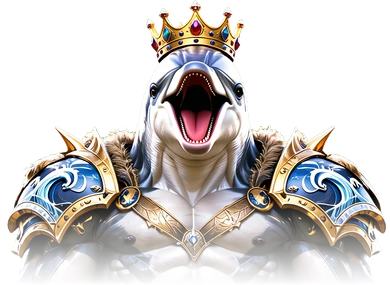
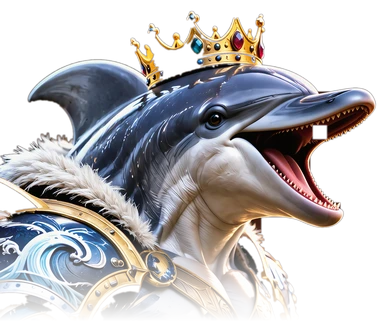
Tidal Kingdom arena; Dolphin King unlocks by winning a match there; matching portrait, victory art and spirit head; leaping-dolphin special effect
Claude-Session: https://claude.ai/code/session_01Wp8cgZvzavvyA9CxcdgKRp

diff --git a/game/js/game.js b/game/js/game.js
@@ -55,7 +55,7 @@ function setGfx(v){GFX=v;try{localStorage.setItem('kotj-gfx',v)}catch(_){}RES.sc
 
 /* ---------- Arenas ---------- */
 const ARENAS=[{id:'jungle-temple',name:'JUNGLE TEMPLE'},{id:'inferno-fortress',name:'INFERNO FORTRESS'},{id:'frozen-kingdom',name:'FROZEN KINGDOM'},
- {id:'savage-plains',name:'SAVAGE PLAINS'},{id:'shadow-swamp',name:'SHADOW SWAMP'},{id:'caes-corner',name:"CAE'S CORNER"},{id:'royal-colosseum',name:"MAJIC'S LAIR",lair:1}];
+ {id:'savage-plains',name:'SAVAGE PLAINS'},{id:'shadow-swamp',name:'SHADOW SWAMP'},{id:'caes-corner',name:"CAE'S CORNER"},{id:'tidal-kingdom',name:'THE TIDAL KINGDOM'},{id:'royal-colosseum',name:"MAJIC'S LAIR",lair:1}];
 const LAIR=ARENAS.find(a=>a.lair),FIGHT_ARENAS=ARENAS.filter(a=>!a.lair);
 const arenaImg={};ARENAS.forEach(a=>{const im=new Image();im.src='assets/arenas/'+a.id+'.webp';arenaImg[a.id]=im});
 let arena=ARENAS[0],stagePick=0; // stagePick: index into ARENAS, ARENAS.length = random
@@ -241,7 +241,7 @@ function render(){
  $('roster').innerHTML='';
  const ORDER=[['lion','tiger','jaguar','wolf','hyena','badger','dolphin','majic'],['grizzly','crocodile','hippo','elephant','leopard','snake','eagle','stag']];
  ORDER.forEach(row=>{const r=document.createElement('div');r.className='sel-row';row.forEach(id=>{const f=roster.find(x=>x.id===id);
-  if(!f){if(NEW_FIGHTERS.some(n=>n.id===id)){const l=document.createElement('div');l.className='fighter-tile locked';l.title='Clear the Tower to unlock a hidden fighter';l.innerHTML='<span class="tf"><b class="q">?</b><i class="lock">🔒</i></span>';r.append(l)}return}
+  if(!f){if(id==='dolphin'){const l=document.createElement('div');l.className='fighter-tile locked tidal-lock';l.title='Win a match in THE TIDAL KINGDOM to unlock';l.innerHTML='<span class="tf"><b class="q">?</b><i class="lock">🌊</i></span>';l.onclick=()=>gmToast('🌊 A KING SLEEPS BENEATH THE WAVES','Win a match in THE TIDAL KINGDOM to unlock him');r.append(l);return}if(NEW_FIGHTERS.some(n=>n.id===id)){const l=document.createElement('div');l.className='fighter-tile locked';l.title='Clear the Tower to unlock a hidden fighter';l.innerHTML='<span class="tf"><b class="q">?</b><i class="lock">🔒</i></span>';r.append(l)}return}
   if(mode==='forgotten'&&f.id==='majic')return;const i=roster.indexOf(f);
   const b=document.createElement('button');b.className='fighter-tile'+(chosen.id===f.id?' selected':'');b.dataset.id=f.id;if(f.id==='majic')b.classList.add('titan');
   b.innerHTML=`<span class="tf"><img src="assets/ui/cards/${f.id}.webp?v=10.16" alt="${f.name}"><strong${f.name.length>9?' class="long"':''}>${f.name}</strong></span>`+(f.id==='majic'?'<i class="bolt b0"></i><i class="bolt b1"></i><i class="bolt b2"></i>':'')+'<em class="tap-pick">TAP TO PICK</em>'+(crowns().includes(f.id)?'<img class="tile-crown" src="assets/ui/crown.webp" alt="Tower champion" title="Conquered the Tower">':'');
@@ -1411,6 +1411,7 @@ const NEW_FIGHTERS=[
  {id:'stag',name:'STAG',icon:'🦌',style:'THE IRON HORN',bio:'An unstoppable charger with iron antlers, crushing kicks and an earth-shaking stomp.',power:9,speed:6,defense:8,color:'#9a6a34'}];
 const unlockedNew=()=>SAVE.get('unlocked',[]);
 function addUnlocked(){for(const f of NEW_FIGHTERS)if(unlockedNew().includes(f.id)&&!roster.includes(f)){const i=roster.indexOf(MAJIC);i>=0?roster.splice(i,0,f):roster.push(f)}}
+const DOLPHIN={id:'dolphin',name:'DOLPHIN KING',icon:'🐬',style:'LORD OF THE TIDES · SPEED & WATER',bio:'A crowned king of the deep. Lightning-fast rushes, water control and agility: Riptide Rush, Whirlpool, Sonar Blast, Breach Slam and the Wrath of the Deep Ultimate.',power:7,speed:9,defense:7,color:'#3f7fc4'}; // unlocked by winning a match in THE TIDAL KINGDOM
 const MAJIC={id:'majic',name:'MAJIC',icon:'👑',style:'THE JUNGLE TITAN · SECRET BOSS',bio:'All 11 beasts in one: lion mane, elephant tusks, eagle wings, serpents, a crocodile tail, tiger stripes and the frost-white fur of a snow leopard. Frost Strike, Jungle Rage, True Titan Form and the Titan Fury Ultra.',power:13,speed:6,defense:14,color:'#d9a43a'};
 const secretUnlocked=()=>!!SAVE.get('secret',false);
 const LOCK_SVG='<svg viewBox="0 0 24 24" width="44%" fill="none" stroke="#e8b95b" stroke-width="2"><rect x="5" y="11" width="14" height="10" rx="2"/><path d="M8 11V7a4 4 0 0 1 8 0v4"/></svg>';
@@ -1821,7 +1822,7 @@ function draw(){
  // Subtle atmospheric depth: slow drifting motes at staggered depths sit
  // between the arena artwork and fighters. They remain cosmetic and cheap.
  {
-  const atmosphere=arena.id==='royal-colosseum'?'#b58cff':arena.id==='frozen-kingdom'?'#c9efff':'#e7c78a';
+  const atmosphere=arena.id==='royal-colosseum'?'#b58cff':arena.id==='tidal-kingdom'?'#9fe8ff':arena.id==='frozen-kingdom'?'#c9efff':'#e7c78a';
   for(let n=0;n<24;n++){
    const depth=.35+(n%5)*.13;
    const x=((n*173+t*(8+(n%4)*3)*depth)%1220)-60;
@@ -2888,7 +2889,7 @@ function drawGeneric(f,i){
  if(f.hitFlash>0){c.globalAlpha=.4;c.fillStyle='#fff';c.beginPath();c.ellipse(0,-150,70,120,0,0,7);c.fill();c.globalAlpha=1;}
 }
 
-addUnlocked();if(secretUnlocked()&&!roster.includes(MAJIC))roster.push(MAJIC);
+addUnlocked();if(unlockedNew().includes('dolphin')&&!roster.includes(DOLPHIN)){const i=roster.indexOf(MAJIC);i>=0?roster.splice(i,0,DOLPHIN):roster.push(DOLPHIN)}if(secretUnlocked()&&!roster.includes(MAJIC))roster.push(MAJIC);
 forgottenMenu();
 render();show('menu');updateGuide();
 addEventListener('resize',()=>{cam.snap=true});addEventListener('orientationchange',()=>{cam.snap=true;setTimeout(()=>{cam.snap=true},300)});
@@ -2911,7 +2912,7 @@ const PFX={
  eagle:{a:'#ffe08a',b:'#ffffff',sc:'#ffe9a0',start:['tornado','feathers','wind'],hit:['spirit:dive','featherburst','gash'],gash:3,gc:'#ffffff'},
  snake:{a:'#8fe04a',b:'#2f6b1a',start:['kcobra'],hit:['kstrike','venom','poison'],gash:0},
  stag:{a:'#9fd86a',b:'#ffe08a',sc:'#a8ff6a',start:['spirit:rise','leafstorm'],hit:['vines','leafburst','shock'],gash:0},
- dolphin:{a:'#4fc3ff',b:'#e4f9ff',sc:'#6fdcff',start:['spirit:rise','drops'],hit:['splash','drops','shock'],gash:0},
+ dolphin:{a:'#4fc3ff',b:'#e4f9ff',sc:'#6fdcff',start:['leap','spirit:rise','drops'],hit:['splash','drops','shock'],gash:0},
  majic:{a:'#b46bff',b:'#7fe6ff',sc:'#b46bff',start:['after','portal','spirit:rise','skybolts'],hit:['bolts','icicles','shock'],gash:0,after:'brightness(.7) saturate(2) hue-rotate(240deg)',sh2:300}
 };
 const PFX_NORMAL=new Set(['claw','double','bite','block','grab','throw']);
@@ -3022,6 +3023,7 @@ function pBurst(f,stage,x,y,big){
   else if(k==='dark')P({kind:'pp',sh:'dark',x:f.x,y:400+f.y-150,life:1.1});
   else if(k==='eyes'){const o=game.fighters[1-game.fighters.indexOf(f)];P({kind:'pp',sh:'eyes',x:(o?o.x:f.x)+d*R(140,220),y:400+(o?o.y:0)-R(250,300),life:1})}
   else if(k==='moon')P({kind:'pp',sh:'moon',x:f.x-d*140,y:120,life:1.4});
+  else if(k==='leap'){P({kind:'pp',sh:'leap',x:f.x,x0:f.x-d*60,dir:d,y:380,life:1.5});sxFx(f,['splash'],f.x-d*230,396,.7)}
   else if(k==='ghostpack'){const o=game.fighters[1-game.fighters.indexOf(f)],ox=o?o.x:f.x+d*300;for(let i=0;i<3;i++)HS(f,{kind:'pp',sh:'spirit',id:'wolf',mode:'charge',x:f.x-d*R(150,260),y:400-R(10,80),x1:ox+d*R(40,140),h:R(120,160),dir:d,color:'#8fc8ff',life:.75,travel:.45,delay:.15+i*.12,alpha:.7,filter:'saturate(.2) brightness(1.3) sepia(.4) hue-rotate(170deg) saturate(2.5)'})}
   else if(k==='pack')for(let i=0;i<3;i++)HS(f,{kind:'pp',sh:'spirit',id:'hyena',mode:'rise',x:f.x+d*(i-1)*140,y:400+f.y-160-(i===1?60:0),h:150,dir:i===0?-d:d,color:'#ff5a3a',life:.9,delay:i*.1,alpha:.75});
   else if(k==='eruption'){const eo=game.fighters[1-game.fighters.indexOf(f)],ex=eo?eo.x:f.x+d*200;P({kind:'pp',sh:'fissure',x:f.x+d*30,x1:ex,y:399,life:.9,seed:Math.random()});HS(f,{kind:'pp',sh:'spirit',id:f.data.id,mode:'emerge',x:ex,delay:.2,y:398,h:230,dir:d,color:th.sc||th.a,life:.9});for(let i=0;i<16;i++)P({kind:'pp',sh:'rock',delay:.2,x:ex+R(-40,40),y:396,vx:R(-260,260),vy:R(-900,-450),g:1700,r:R(7,15),rot:R(0,6),vr:R(-9,9),life:R(.9,1.3),color:i%3?'#6b5440':'#8a7356'});for(let i=0;i<8;i++)P({kind:'pp',sh:'puff',delay:.2,x:ex+R(-50,50),y:396-R(0,120),vx:R(-40,40),vy:R(-160,-60),r:R(18,30),grow:60,life:R(.7,1),color:'#8a7356',alpha:.5})}
@@ -3263,6 +3265,7 @@ function pCobra(p,k){const s=(p.sz||1)*(p.strike?1.05:1)*.75,lunge=p.strike?Math
    case'dark':dDark(p,k);break;
    case'eyes':dEyes(p,k);break;
    case'moon':dMoon(p,k);break;
+   case'leap':dLeap(p);break;
    case'fissure':dFissure(p,k);break;
    case'pool':dPool(p,k);break;
    case'tidal':dTidal(p,k);break;
@@ -3420,12 +3423,12 @@ const SX_GLYPH={'236A':'↓↘→ + ATK','214A':'↓↙← + ATK','236S':'↓↘
 // fs / fh: effects on start / on hit · use: an existing move · grab / launch / down / root / slow / venom / freeze / tele / parry / proj / cost / cd
 const SX={
  dolphin:{m:[
-  {n:'TIDAL WAVE CRUSHER',d:'Summons a towering ocean wave that crashes into the foe and knocks them back',a:['sx3','attack_heavy'],t:1.0,h:[.62],dm:13,st:.85,pu:460,r:520,ry:80,down:1,fs:['drops'],fh:['tidal','splash','wave','quake'],col:'#4fc3ff'},
+  {n:'TIDAL WAVE CRUSHER',d:'Summons a towering ocean wave that crashes into the foe and knocks them back',a:['sx3','attack_heavy'],t:1.0,h:[.62],dm:13,st:.85,pu:460,r:520,ry:80,down:1,fs:['leap','spirit:rise','drops'],fh:['tidal','splash','wave','quake'],col:'#4fc3ff'},
   {n:'SONIC ECHO BLAST',d:'Echolocation shockwave from his mouth · stuns and warps the screen',a:['sx2','attack_heavy'],t:.85,h:[.48],dm:8,st:1.25,pu:220,r:700,ry:90,warp:1,fs:['wave'],fh:['wave','shock'],col:'#b8f0ff'},
   {n:'AQUA TORNADO',d:'Rapid spin inside a water vortex · lifts the foe into the air for juggles',a:['sx1','attack_heavy'],t:.85,h:[.25,.45,.65],dm:4.2,st:.7,pu:90,r:330,vy:-420,launch:1,fs:['vortex'],fh:['vortex','drops','splash'],col:'#3fd2ff'},
-  {n:'DOLPHIN TORPEDO',d:'Launches forward like a torpedo wrapped in water · devastating shoulder strike',a:['special_pounce'],t:.75,h:[.38],dm:12,st:.75,pu:360,r:330,vx:760,fs:['splash','drops'],fh:['splash','drops','shock'],col:'#4fc3ff'},
+  {n:'DOLPHIN TORPEDO',d:'Launches forward like a torpedo wrapped in water · devastating shoulder strike',a:['special_pounce'],t:.75,h:[.38],dm:12,st:.75,pu:360,r:330,vx:760,fs:['leap','splash','drops'],fh:['splash','drops','shock'],col:'#4fc3ff'},
   {n:'TIDAL FIST',d:'Electric water uppercut (25% meter)',a:['attack_heavy','uppercut'],t:.78,h:[.42],dm:11,st:.75,pu:300,r:290,cost:25,fs:['drops'],fh:['splash','wave','shock'],col:'#7fe0ff'}],
-  u:{n:'WRATH OF THE OCEAN',s:'THE OCEAN RISES',col:'#4fc3ff',dark:1,flood:1,seq:[['sx1',.6,['vortex','drops','splash'],7],['uppercut',.5,['vortex','splash','shock'],8,'up'],['jump',.45,['drops'],0,'up'],['sx3',.7,['tidal','splash','wave','quake','shock'],16,'crash']]}},
+  u:{n:'WRATH OF THE OCEAN',s:'THE OCEAN RISES',col:'#4fc3ff',dark:1,flood:1,seq:[['sx1',.6,['leap','vortex','drops','splash'],7],['uppercut',.5,['vortex','splash','shock'],8,'up'],['jump',.45,['drops'],0,'up'],['sx3',.7,['tidal','splash','wave','quake','shock'],16,'crash']]}},
  lion:{m:[
   {n:'ROYAL ROAR',d:'Thunderous roar · golden shockwave pushes the foe back',use:'lionRoar'},
   {n:"KING'S CLAW",d:'Three-claw combination with golden slash trails',a:['sx1','attack_light'],t:.72,h:[.2,.36,.52],dm:4.6,st:.5,pu:120,r:300,vx:220,fh:['gash','embers'],col:'#ffd36b'},
@@ -3840,7 +3843,7 @@ RES.floor=LITE()?.6:.75;
 if(/[?&]fps=1/.test(location.search)){const el=document.createElement('div');el.id='fps-meter';el.style.cssText='position:fixed;left:6px;top:50%;z-index:99;background:rgba(0,0,0,.72);color:#9f9;font:600 11px/1.35 monospace;padding:6px 8px;border-radius:6px;pointer-events:none;white-space:pre';document.body.appendChild(el);
  let n=0,acc=0,worst=0,last=performance.now();const tick=()=>{const t=performance.now(),d=t-last;last=t;n++;acc+=d;worst=Math.max(worst,d);
   if(acc>=1000){const cv=$('game-canvas'),id=game&&game.fighters?game.fighters[0].data.id:null;
-   el.textContent=`FPS ${Math.round(n*1000/acc)}  worst ${Math.round(worst)}ms\ncanvas ${cv.width}x${cv.height} dpr ${devicePixelRatio}\nart ${id?(HDT[id]?(HDT[id]===HD[id]?'HD':'LIGHT'):'LOW'):'-'}  fx ${FXQ}  res ${Math.round(RES.scale*100)}%\ngfx ${KOTJ_GM.mode.toUpperCase()}:${KOTJ_GM.level}  colors ${window.KOTJ_TINT&&id&&window.KOTJ_ARMORY&&KOTJ_ARMORY.fightColors(id)?'on':'off'}\nbuild 15.50`;n=0;acc=0;worst=0}
+   el.textContent=`FPS ${Math.round(n*1000/acc)}  worst ${Math.round(worst)}ms\ncanvas ${cv.width}x${cv.height} dpr ${devicePixelRatio}\nart ${id?(HDT[id]?(HDT[id]===HD[id]?'HD':'LIGHT'):'LOW'):'-'}  fx ${FXQ}  res ${Math.round(RES.scale*100)}%\ngfx ${KOTJ_GM.mode.toUpperCase()}:${KOTJ_GM.level}  colors ${window.KOTJ_TINT&&id&&window.KOTJ_ARMORY&&KOTJ_ARMORY.fightColors(id)?'on':'off'}\nbuild 15.51`;n=0;acc=0;worst=0}
   requestAnimationFrame(tick)};requestAnimationFrame(tick)}
 
 // Phones (Effects MEDIUM/LOW): canvas filters and shadow blur are the slowest things a phone browser can draw,
@@ -3975,4 +3978,21 @@ function fightTint(f){const mine=ownTint(f);if(!game)return mine;const F=game.fi
 // Sonic Echo Blast: a short screen ripple when it connects
 {const _rh=resolveHit;resolveHit=function(i,mv){const o=game.fighters[1-i],h0=o.hp+(o.bars||0)*1000;const r=_rh.apply(this,arguments);try{if(mv&&mv.sx&&mv.sx.warp&&h0>o.hp+(o.bars||0)*1000)game.warpT=.7}catch(_){}return r}}
 {const _ct=camTilt;camTilt=function(vw,vh){_ct(vw,vh);if(game&&game.warpT>0){game.warpT=Math.max(0,game.warpT-(frameDt||.016));const k=game.warpT/.7,t=performance.now()/1000,wx=cam.x+vw/2,wy=cam.y+vh/2;c.translate(wx,wy);c.transform(1+Math.sin(t*38)*.025*k,Math.sin(t*29)*.03*k,Math.cos(t*33)*.03*k,1+Math.cos(t*41)*.025*k,0,0);c.translate(-wx,-wy)}}}
+
+// ---------- Dolphin King unlock: win any match in THE TIDAL KINGDOM ----------
+{const _fin=finish;finish=function(){const was=game&&game.over;const r=_fin.apply(this,arguments);
+ try{if(!was&&game&&arena&&arena.id==='tidal-kingdom'&&mode!=='training'&&!unlockedNew().includes('dolphin')){
+  const [p,q]=game.fighters,tp=total(p),tq=total(q);if(Math.abs(tp-tq)>=.01){const w=tp>tq?p:q;
+   const human=mode==='versus'||(mode==='online'?((tp>tq?0:1)===ON.side):!w.ai);
+   if(human){SAVE.set('unlocked',[...unlockedNew(),'dolphin']);if(!roster.includes(DOLPHIN)){const i=roster.indexOf(MAJIC);i>=0?roster.splice(i,0,DOLPHIN):roster.push(DOLPHIN)}
+    setTimeout(()=>{const c=$('winner-copy');if(c){const n=document.createElement('p');n.className='unlock-note';n.innerHTML='🌊 <b>NEW FIGHTER UNLOCKED · DOLPHIN KING</b><br><small>The King of the Tides rises from the deep. He is now in your roster.</small>';c.after(n)}gmToast('🌊 DOLPHIN KING UNLOCKED','The King of the Tides joins the roster');try{AU&&AU.sfx&&AU.sfx('instinct')}catch(_){}},400)}}}}catch(_){}
+ return r}}
+
+// ---------- Dolphin King: a real dolphin leaps out of the water behind him (like the Wolf's moon) ----------
+const LEAP_IMG=new Image();LEAP_IMG.src='assets/fx/dolphin-leap.webp?v=15.51';try{FXQ_ALWAYS.add('leap')}catch(_){}
+function dLeap(p){if(!LEAP_IMG.complete||!LEAP_IMG.naturalWidth)return;const u=Math.min(1,p.t/p.life),d=p.dir||1;
+ const x=p.x0+d*(-230+520*u),y=392-300*4*u*(1-u),ang=Math.atan2(-300*4*(1-2*u),520*d)*.6;
+ const w=330,h=w*LEAP_IMG.naturalHeight/LEAP_IMG.naturalWidth;
+ c.globalAlpha=Math.min(1,p.t/.18)*Math.min(1,(p.life-p.t)/.25)*.95;c.translate(x,y);c.rotate(ang);if(d===1)c.scale(-1,1);
+ c.drawImage(LEAP_IMG,-w*.5,-h*.38,w,h)}
 })();

diff --git a/game/index.html b/game/index.html
@@ -9,7 +9,7 @@
   <meta property="og:description" content="15 armored beasts. One crown. Can you climb the Tower? Free in your browser on phone, PC or controller. No download.">
   <meta property="og:image" content="https://kingofthejunglegame.netlify.app/og-cover.jpg?v=3"><meta property="og:image:width" content="1200"><meta property="og:image:height" content="630">
   <meta name="twitter:card" content="summary_large_image"><meta name="twitter:image" content="https://kingofthejunglegame.netlify.app/og-cover.jpg?v=3">
-  <link rel="stylesheet" href="styles.css?v=15.47"><link rel="stylesheet" href="armory.css?v=15.35">
+  <link rel="stylesheet" href="styles.css?v=15.51"><link rel="stylesheet" href="armory.css?v=15.35">
 </head>
 <body>
   <div id="splash" aria-hidden="true"><div class="splash-blur"></div><img src="assets/ui/cover.webp?v=7.1" alt="King of the Jungle cover art"><div class="splash-hint">OR PRESS ANY KEY / BUTTON</div></div>
@@ -41,7 +41,7 @@
           <button class="blood-btn cover-setting">BLOOD: OFF</button><button class="gfx-btn cover-setting">GRAPHICS: AUTO</button>
         </div>
       </div>
-      <div class="cover-roster"><span>12 FIGHTERS · ONE THRONE</span><div id="cover-faces"></div></div>
+      <div class="cover-roster"><span>11 FIGHTERS · ONE THRONE</span><div id="cover-faces"></div></div>
       <div class="cover-meta"><span id="cover-build">VERSION 1.5</span><span>© King of the Jungle · J. Hardy</span></div>
     </section>
     <section id="select" class="screen hidden v2sel">
@@ -115,7 +115,7 @@
     <section id="armory" class="screen hidden armory-screen"></section>
     <footer><span>© KING OF THE JUNGLE</span><span>Created and Developed by J. Hardy</span></footer>
   </main>
-  <script src="js/roster.js?v=15.50"></script><script src="js/story.js?v=15.50"></script><script src="js/sprites-hd.js?v=15.50"></script><script src="js/sprites-md.js?v=15.50"></script><script src="js/peaks.js?v=15.50"></script><script src="js/audio.js?v=9.12"></script><script src="js/hitboxes.js?v=15.50"></script><script src="js/net.js?v=7.1"></script><script src="js/game.js?v=15.50"></script><script src="js/tint.js?v=15.50"></script><script src="js/armory.js?v=15.35"></script>
+  <script src="js/roster.js?v=15.51"></script><script src="js/story.js?v=15.51"></script><script src="js/sprites-hd.js?v=15.51"></script><script src="js/sprites-md.js?v=15.51"></script><script src="js/peaks.js?v=15.51"></script><script src="js/audio.js?v=9.12"></script><script src="js/hitboxes.js?v=15.51"></script><script src="js/net.js?v=7.1"></script><script src="js/game.js?v=15.51"></script><script src="js/tint.js?v=15.51"></script><script src="js/armory.js?v=15.35"></script>
   <script src="js/landscape.js?v=10.40"></script>
 <script>(function(){var last=0;
 document.addEventListener('gesturestart',function(e){e.preventDefault()},{passive:false});

diff --git a/game/styles.css b/game/styles.css
@@ -982,7 +982,7 @@ body #touch-pad .sx-star,body.fighting #touch-pad .sx-star{background:radial-gra
  #select.v2sel .fighter-tile strong.long{font-size:8px!important;letter-spacing:0!important}
  html.kotj-touch #select.v2sel .fighter-tile .tap-pick{display:none!important}
  /* arena select: all arenas at once in a 4 x 2 grid, one tap starts the fight */
- #stage .stage-grid{display:grid!important;width:100%;box-sizing:border-box;grid-template-columns:repeat(4,minmax(0,1fr))!important;grid-template-rows:repeat(2,minmax(0,1fr))!important;overflow:hidden!important;scroll-snap-type:none!important;gap:10px 12px!important;padding:6px 6px!important;align-items:stretch}
+ #stage .stage-grid{display:grid!important;width:100%;box-sizing:border-box;grid-template-columns:repeat(5,minmax(0,1fr))!important;grid-template-rows:repeat(2,minmax(0,1fr))!important;overflow:hidden!important;scroll-snap-type:none!important;gap:10px 12px!important;padding:6px 6px!important;align-items:stretch}
  #stage .stage-tile,#stage .stage-tile:nth-child(7),#stage .stage-tile:nth-child(8){grid-column:auto!important;height:auto!important;max-height:none!important;width:auto!important;aspect-ratio:auto!important;min-height:0}
  #stage .stage-tile .sf strong{font-size:12px!important;padding:3px 2px!important;bottom:6%!important}
  html.kotj-touch #stage .stage-tile.selected::after{content:none}
@@ -1017,3 +1017,11 @@ body #touch-pad .sx-star,body.fighting #touch-pad .sx-star{background:radial-gra
  .dev-opts{display:grid!important;grid-template-columns:repeat(5,minmax(0,1fr))!important;gap:8px!important}
  .dev-opt{padding:8px 4px!important;min-height:0!important}
 }
+
+/* 1.5: nine arena tiles (8 arenas + random) — three even rows on big screens */
+#stage .stage-tile:nth-child(7),#stage .stage-tile:nth-child(8){grid-column:span 4}
+/* the Dolphin King's locked tile */
+#select.v2sel .fighter-tile.tidal-lock{cursor:pointer;background:radial-gradient(ellipse at 50% 85%,#0c4a7a,#06223d 60%,#03101e)!important;border-color:#4fb8ff!important}
+#select.v2sel .fighter-tile.tidal-lock .q{color:#9fe3ff!important}
+.unlock-note{margin:6px auto 4px;padding:8px 14px;max-width:520px;border:1px solid #4fb8ff;border-radius:10px;background:rgba(6,34,61,.85);color:#d9f4ff;text-align:center;font:600 14px Inter,sans-serif;box-shadow:0 0 18px rgba(79,184,255,.45)}
+.unlock-note b{color:#9fe3ff;letter-spacing:.08em}

diff --git a/game/js/roster.js b/game/js/roster.js
@@ -10,5 +10,4 @@ window.KOTJ_ROSTER=[
 {id:'tiger',name:'TIGER',icon:'🐅',style:'RELENTLESS STRIKER',bio:'Fast claw combinations, leaps, and devastating momentum.',power:8,speed:9,defense:6,color:'#d17d32'},
 {id:'grizzly',name:'GRIZZLY',icon:'🐻',style:'HEAVYWEIGHT',bio:'A heavyweight with huge swipes and armor-breaking power.',power:10,speed:4,defense:9,color:'#76523b'},
 {id:'hippo',name:'HIPPO',icon:'🦛',style:'RIVER TANK',bio:'An immovable force with body checks, stomps, and short bursts.',power:10,speed:3,defense:10,color:'#8d7180'},
-{id:'elephant',name:'ELEPHANT',icon:'🐘',style:'TITAN CONTROL',bio:'A towering heavyweight with trunk strikes, stomps, and reach.',power:10,speed:3,defense:10,color:'#92958c'},
-{id:'dolphin',name:'DOLPHIN KING',icon:'🐬',style:'LORD OF THE TIDES · SPEED & WATER',bio:'A crowned king of the deep. Lightning-fast rushes, water control and agility: Riptide Rush, Whirlpool, Sonar Blast, Breach Slam and the Wrath of the Deep Ultimate.',power:7,speed:9,defense:7,color:'#3f7fc4'}];
+{id:'elephant',name:'ELEPHANT',icon:'🐘',style:'TITAN CONTROL',bio:'A towering heavyweight with trunk strikes, stomps, and reach.',power:10,speed:3,defense:10,color:'#92958c'}];

diff --git a/game/js/armory.js b/game/js/armory.js
@@ -6,7 +6,7 @@ const $=id=>document.getElementById(id);
 const V='15.11';
 const STORE_KEY='kotj.armory';
 const BASE=[...(window.KOTJ_ROSTER||[])].map(f=>({id:f.id,name:f.name,color:f.color}));
-const HIDDEN=[{id:'snake',name:'SNAKE'},{id:'eagle',name:'EAGLE'},{id:'stag',name:'STAG'},{id:'majic',name:'MAJIC'}];
+const HIDDEN=[{id:'snake',name:'SNAKE'},{id:'eagle',name:'EAGLE'},{id:'stag',name:'STAG'},{id:'dolphin',name:'DOLPHIN KING'},{id:'majic',name:'MAJIC'}];
 const FIGHTERS=[...BASE,...HIDDEN];
 const unlocked=()=>{try{return JSON.parse(localStorage.getItem('kotj.unlocked')||'[]')}catch(_){return[]}};
 const isOpen=id=>!HIDDEN.some(h=>h.id===id)||unlocked().includes(id);
